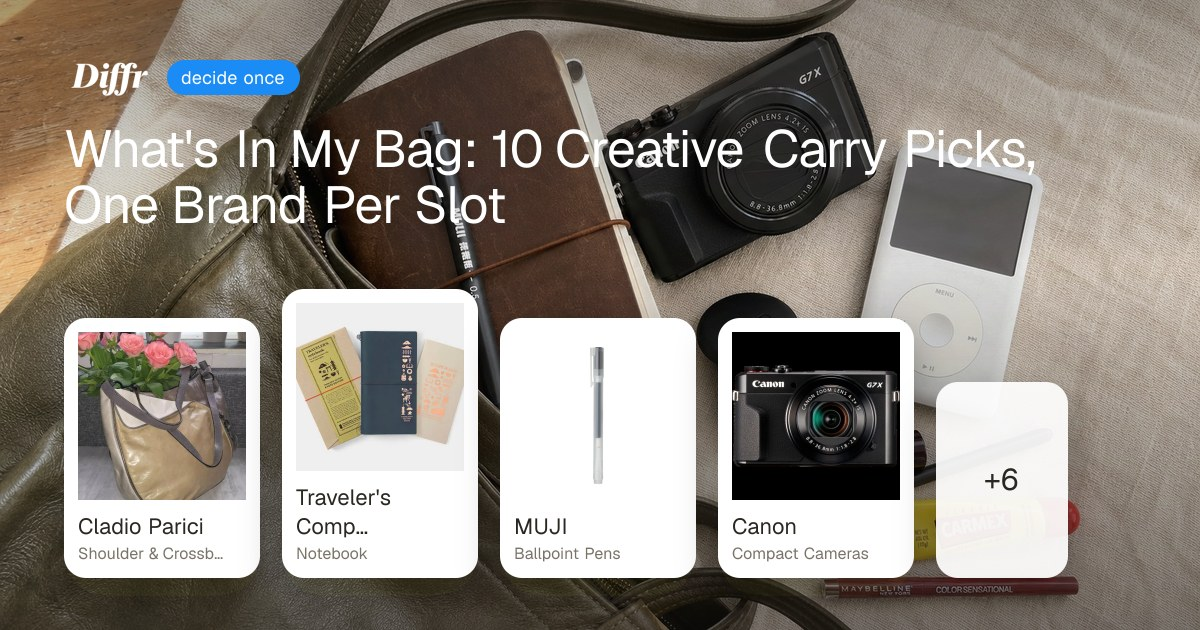
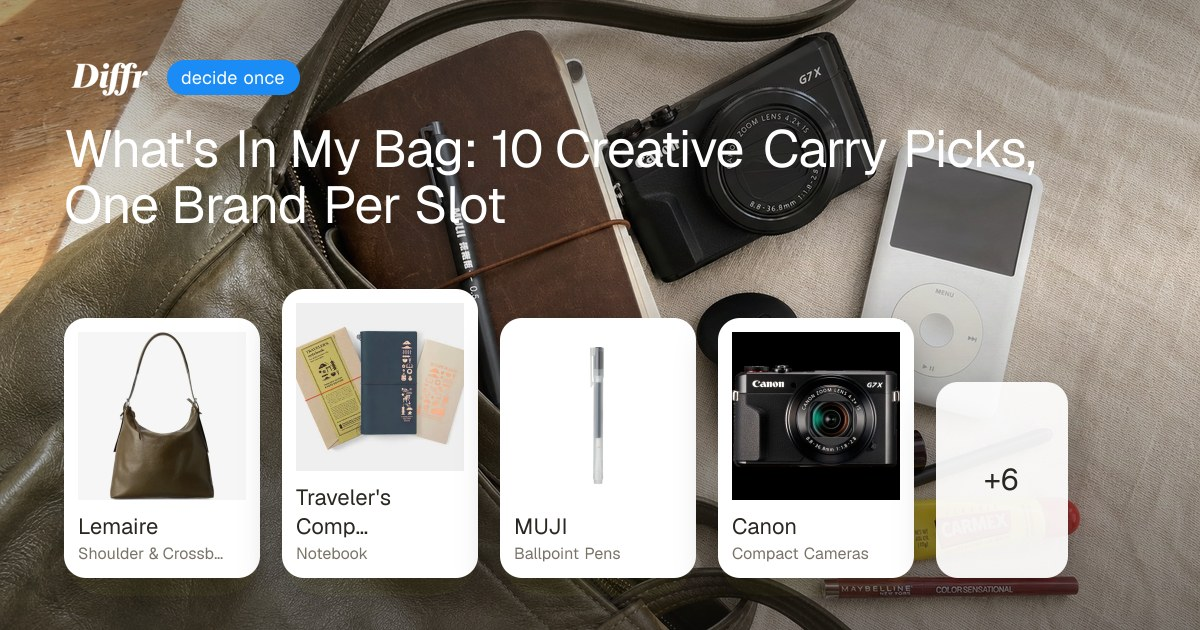
Fix WIMB slot 1: Cladio Parici misread → Lemaire belted shoulder bag.
Rebake OG share card so preset 144 tile 1 shows Lemaire pl 1841513.

Changed region(s): [[0.0617, 0.5127, 0.2158, 0.8444]]

diff --git a/app/diffr/blog/posts.ts b/app/diffr/blog/posts.ts
@@ -2336,21 +2336,21 @@ export const posts: BlogPost[] = [
   {
     slug: 'wimb-munchi-brand-guide',
     title: 'What\'s In My Bag: 10 Creative Carry Picks, One Brand Per Slot',
-    description: 'WIMB Munchi creative carry decoded — Cladio Parici vintage tote, Traveler\'s Company Kyoto notebook, MUJI gel pen, Canon G7X Mark II, Apple iPod Classic, Loop Quiet 2, Clinique Black Honey, MAC Lip Pencil Plum, Carmex Classic, Maybelline Lifter Liner 07 Big Lift. Ten brands on warm linen.',
+    description: 'WIMB Munchi creative carry decoded — Lemaire belted shoulder bag, Traveler\'s Company Kyoto notebook, MUJI gel pen, Canon G7X Mark II, Apple iPod Classic, Loop Quiet 2, Clinique Black Honey, MAC Lip Pencil Plum, Carmex Classic, Maybelline Lifter Liner 07 Big Lift. Ten brands on warm linen.',
     date: '2026-08-29',
     readTime: '5 min read',
     tags: ['brand guide', 'whats in my bag', 'WIMB', 'creative carry', 'flat lay', 'one brand per slot', 'non-repetition principle'],
     category: 'product',
-    excerpt: 'Ten daily-carry picks from Munchi\'s thrift tote — Cladio Parici slouch bag, Traveler\'s Company Kyoto TN, MUJI pen, Canon G7X Mark II, iPod Classic, Loop Quiet, Clinique Black Honey, MAC Plum liner, Carmex, Maybelline Lifter Liner — one brand per slot.',
+    excerpt: 'Ten daily-carry picks from Munchi\'s tote spill — Lemaire belted shoulder bag, Traveler\'s Company Kyoto TN, MUJI pen, Canon G7X Mark II, iPod Classic, Loop Quiet, Clinique Black Honey, MAC Plum liner, Carmex, Maybelline Lifter Liner — one brand per slot.',
     content: `
-<p>The Munchi &ldquo;what&rsquo;s in my bag&rdquo; spill is an authentic creative-carry decode on warm linen: a thrifted <strong>Cladio Parici</strong> olive slouchy leather tote, a <strong>Traveler&rsquo;s Company</strong> Kyoto leather Traveler&rsquo;s Notebook, a <strong>MUJI</strong> 0.5mm gel pen, a <strong>Canon</strong> PowerShot G7X Mark II vlog camera, a silver <strong>Apple iPod Classic</strong> 7th Gen (not iPhone), <strong>Loop Quiet 2</strong> earplugs, <strong>Clinique Almost Lipstick Black Honey</strong>, <strong>MAC Lip Pencil Plum</strong>, <strong>Carmex Classic</strong> squeeze tube, and <strong>Maybelline Lifter Liner 07 Big Lift</strong>. Ten slots, ten brands &mdash; thrift journal energy, not a luxury beauty vanity grid.</p>
+<p>The Munchi &ldquo;what&rsquo;s in my bag&rdquo; spill is an authentic creative-carry decode on warm linen: a <strong>Lemaire</strong> brown leather belted shoulder bag, a <strong>Traveler&rsquo;s Company</strong> Kyoto leather Traveler&rsquo;s Notebook, a <strong>MUJI</strong> 0.5mm gel pen, a <strong>Canon</strong> PowerShot G7X Mark II vlog camera, a silver <strong>Apple iPod Classic</strong> 7th Gen (not iPhone), <strong>Loop Quiet 2</strong> earplugs, <strong>Clinique Almost Lipstick Black Honey</strong>, <strong>MAC Lip Pencil Plum</strong>, <strong>Carmex Classic</strong> squeeze tube, and <strong>Maybelline Lifter Liner 07 Big Lift</strong>. Ten slots, ten brands &mdash; journal-and-vlog carry energy, not a luxury beauty vanity grid.</p>
 
-<p>Source decode: creator Munchi daily tote tour via NotebookLM. Apple slot = iPod Classic only; daily iPhone excluded so Apple appears once. Slots 8 and 10 are both lip liners but pinned to distinct catalog lines on preset 144.</p>
+<p>Source decode: creator Munchi daily tote tour via NotebookLM. Slot 1 editorial correction: resale-listing misread &ldquo;Cladio Parici&rdquo; &rarr; <strong>Lemaire belted shoulder bag in leather (brown)</strong>. Apple slot = iPod Classic only; daily iPhone excluded so Apple appears once. Slots 8 and 10 are both lip liners but pinned to distinct catalog lines on preset 144.</p>
 
 <h2>The Slots</h2>
 
-<h3>Slot 1 &mdash; Slouchy Shoulder Bag</h3>
-<p><strong>Italian Claudio Ferrici GENUINE LEATHER SHOULDER Tote HANDBAG Hobo Slouch BAG</strong> &mdash; Cladio Parici vintage olive slouchy leather tote (thrift aesthetic).</p>
+<h3>Slot 1 &mdash; Belted Shoulder Bag</h3>
+<p><strong>belted shoulder bag in leather (brown)</strong> &mdash; Lemaire brown leather belted shoulder bag from the tote spill.</p>
 
 <h3>Slot 2 &mdash; Refillable Planner</h3>
 <p><strong>トラベラーズノート KYOTO EDITION</strong> &mdash; Traveler&rsquo;s Company Kyoto leather TN with elastic band.</p>

diff --git a/app/diffr/blog/brand-guide-content.ts b/app/diffr/blog/brand-guide-content.ts
@@ -190,7 +190,7 @@ export const BLOG_TLDR: Record<string, string> = {
   'evergreen-edc-brand-guide':
     'Bottom line: the evergreen EDC flat lay is ten green-toned slots on sage felt — Nomos Tangente forest-green class, Bellroy Apex Everglade, Leatherman Micra Spruce, Bose QuietComfort Cypress Green, The James Brand Madison Grove, Streamlight Sidewinder Military, Orbitkey Pro Evergreen, Nikon Z f Moss Green, Benchmade Bugout Taiga Green, and Pioneer Savant Pack Forest — one brand each. Hidden-CN flat torch decode → Streamlight Sidewinder. Live catalog tiles below.',
   'wimb-munchi-brand-guide':
-    'Bottom line: the Munchi WIMB creative carry spill is ten slots on warm linen — Cladio Parici vintage tote, Traveler\'s Company Kyoto TN, MUJI gel pen, Canon G7X Mark II, Apple iPod Classic 7th Gen, Loop Quiet 2, Clinique Black Honey, MAC Lip Pencil Plum, Carmex Classic, and Maybelline Lifter Liner 07 Big Lift — one brand each. Apple slot is iPod only; distinct from preset 112 luxury beauty WIMB. Live catalog tiles below.',
+    'Bottom line: the Munchi WIMB creative carry spill is ten slots on warm linen — Lemaire belted shoulder bag in leather (brown), Traveler\'s Company Kyoto TN, MUJI gel pen, Canon G7X Mark II, Apple iPod Classic 7th Gen, Loop Quiet 2, Clinique Black Honey, MAC Lip Pencil Plum, Carmex Classic, and Maybelline Lifter Liner 07 Big Lift — one brand each. Slot 1 corrected from resale misread to Lemaire. Apple slot is iPod only; distinct from preset 112 luxury beauty WIMB. Live catalog tiles below.',
   'on-your-feet-all-day-work-brand-guide':
     'Bottom line: on your feet all day shoes start with Hoka cushioned walking shoes — then Comrad compression socks, Superfeet insoles, Lululemon stretch pants, Uniqlo AIRism tee, O\'Keeffe\'s foot cream, Owala bottle, and Gorilla Grip anti-fatigue mat — one brand per slot. Shift comfort on hard floors; not a single-brand Adidas wall. Live catalog tiles below as crawled.',
 }
@@ -1850,7 +1850,11 @@ export const BLOG_FAQ: Record<string, FaqItem[]> = {
   'wimb-munchi-brand-guide': [
     {
       q: 'What is the Munchi what\'s in my bag creative carry?',
-      a: 'It is a ten-slot authentic daily tote spill: Cladio Parici vintage slouchy leather tote, Traveler\'s Company Kyoto leather TN, MUJI 0.5mm gel pen, Canon PowerShot G7X Mark II, Apple iPod Classic 7th Gen silver, Loop Quiet 2 earplugs, Clinique Almost Lipstick Black Honey, MAC Lip Pencil Plum, Carmex Classic tube, and Maybelline Lifter Liner 07 Big Lift — ten distinct brands on preset 144.',
+      a: 'It is a ten-slot authentic daily tote spill: Lemaire belted shoulder bag in leather (brown), Traveler\'s Company Kyoto leather TN, MUJI 0.5mm gel pen, Canon PowerShot G7X Mark II, Apple iPod Classic 7th Gen silver, Loop Quiet 2 earplugs, Clinique Almost Lipstick Black Honey, MAC Lip Pencil Plum, Carmex Classic tube, and Maybelline Lifter Liner 07 Big Lift — ten distinct brands on preset 144.',
+    },
+    {
+      q: 'Why Lemaire instead of Cladio Parici for slot 1?',
+      a: 'The video/resale decode misread a thrift listing label as "Cladio Parici." Editorial correction pins slot 1 to Lemaire belted shoulder bag in leather (brown) — a real brand with a catalog hero image on preset 144.',
     },
     {
       q: 'Why iPod Classic instead of iPhone for the Apple slot?',
@@ -1858,7 +1862,7 @@ export const BLOG_FAQ: Record<string, FaqItem[]> = {
     },
     {
       q: 'How is this different from the luxury beauty WIMB post (preset 112)?',
-      a: 'Preset 112 is a quiet-luxury beauty vanity — Miu Miu matelassé, Chanel N°5, YSL lipstick, Mejuri hoops on off-white. Munchi WIMB is thrift creative carry — vintage leather tote spill with journal, vlog camera, iPod, and four distinct lip lanes on warm linen — preset 144.',
+      a: 'Preset 112 is a quiet-luxury beauty vanity — Miu Miu matelassé, Chanel N°5, YSL lipstick, Mejuri hoops on off-white. Munchi WIMB is creative carry — Lemaire belted shoulder bag spill with journal, vlog camera, iPod, and four distinct lip lanes on warm linen — preset 144.',
     },
     {
       q: 'Why two lip liner slots?',
